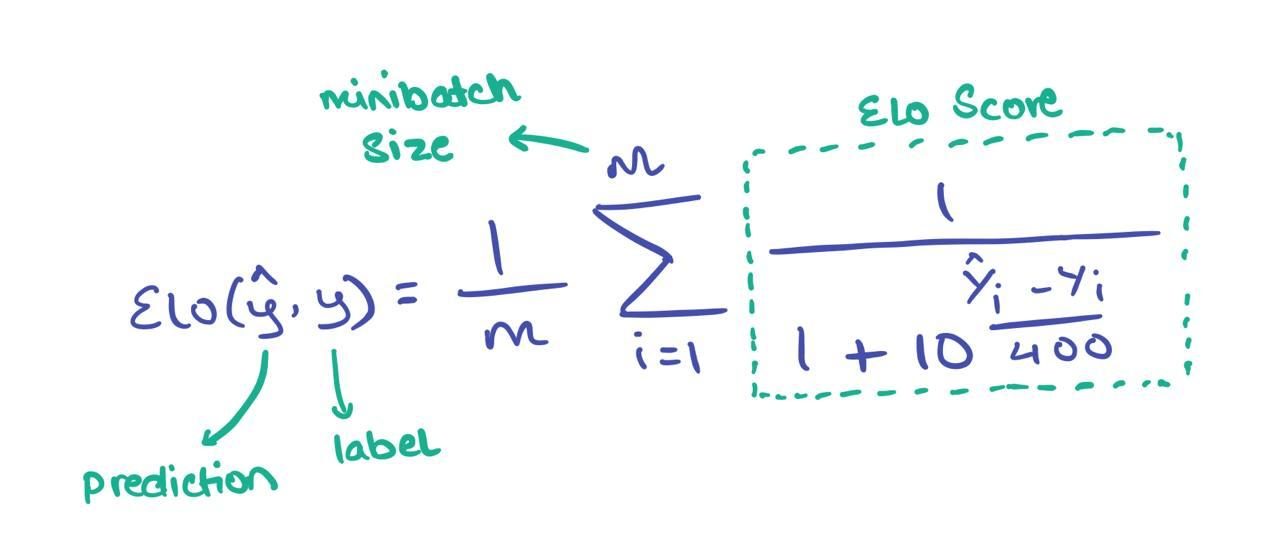
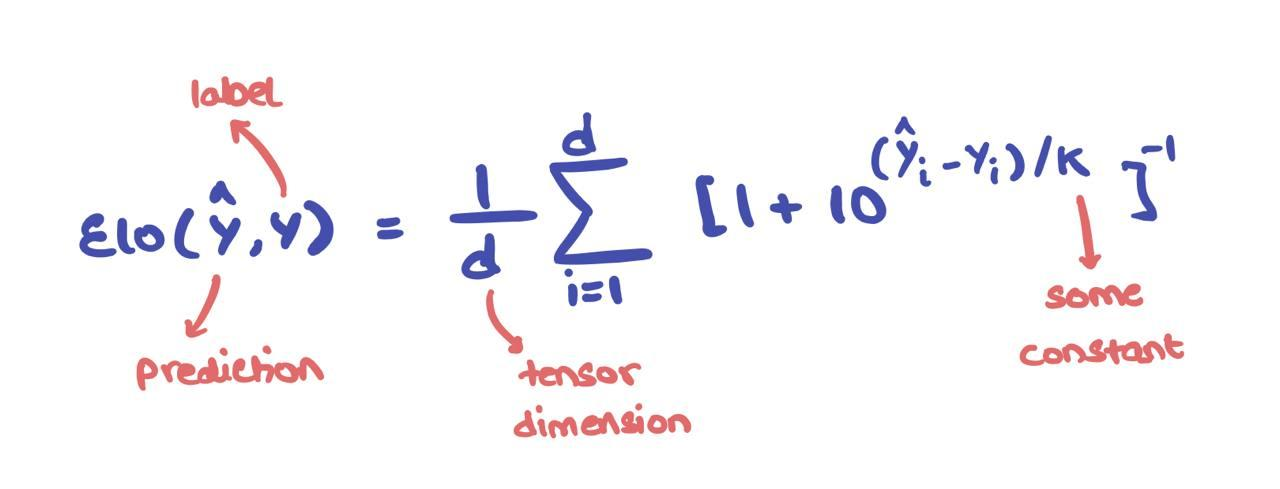
Update images in blogpost

diff --git a/_posts/2022-01-30-elo-loss.md b/_posts/2022-01-30-elo-loss.md
@@ -25,7 +25,7 @@ To update the score for player **X**, the following formula is used:
 
 <img src="/images/update.jpg" width="100%">
 
-where $$S_X=\{1, 0, 1/2\}$$ is the result of the game ($$1$$ means win, $$0$$ means lose, $$\frac{1}{2}$$ is draw). In fact, if you realise, the lower the expected score $$E_X$$, the higher the "surprise" of player **X** winning the game (i.e., $$S_X=1$$), resulting in a proportionally higher score hike for **X**. Likewise, if it's rather "duh" the player **X** will highly likely win (i.e., a high #$$E_X$$), the lower the score hike for them.
+where $$K$$ is some constant usually set by tournament's presiding members and $$S_X=\{1, 0, \frac{1}{2}\}$$ is the result of the game ($$1$$ means win, $$0$$ means lose, $$\frac{1}{2}$$ is draw). In fact, if you realise, the lower the expected score $$E_X$$, the higher the "surprise" of player **X** winning the game (i.e., $$S_X=1$$), resulting in a proportionally higher score hike for **X**. Likewise, if it's rather "duh" the player **X** will highly likely win (i.e., a high #$$E_X$$), the lower the score hike for them.
 
 > Of course, this update step is not of concern in this blog post. It's just a funky detail I decided to add for brevity.
 
@@ -41,9 +41,16 @@ This so-called **Elo Loss** can be formulated as follows:
 
 <img src="/images/eloloss.jpg" width="100%">
 
-where $$\hat{y}$$ is the prediction, $$y$$ is the label, and $$m$$ is the batch/minibatch size.
+where $$\hat{y}$$ is the prediction, $$y$$ is the label, and $$m$$ is the batch/minibatch size. The $$\hat{y}$$ and $$y$$ terms $$\in \mathbb{R}^d$$ can either be tensors or scalars. This can be considered in the batch/minibatch setting as well – just need to get the mean over all batch samples.
 
 ## Results and Discussion
 I trained a standard MLP using Elo Loss and standard Cross Entropy Loss on MNIST and CIFAR-10. I repeated the experiments with a CNN using a similar set-up but with the additional Fashion MNIST dataset included. I've embedded the _Weights & Biases_ plots for your reference:
 
-The mo
+### MNIST
+
+### Fashion MNIST
+
+### CIFAR-10 and CIFAR-100
+
+## Final Remarks
+Here, I use the Elo rating system as a loss function. I'm not entirely sure if this has been done before based on a quick search online. I'm guessing any decent differentiable function can be used as a loss. This gets me thinking about the desirable characteristics of loss functions in general, aside from differentiability.
